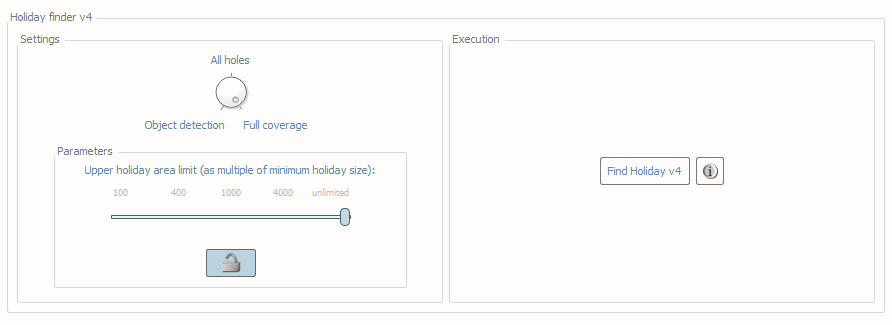
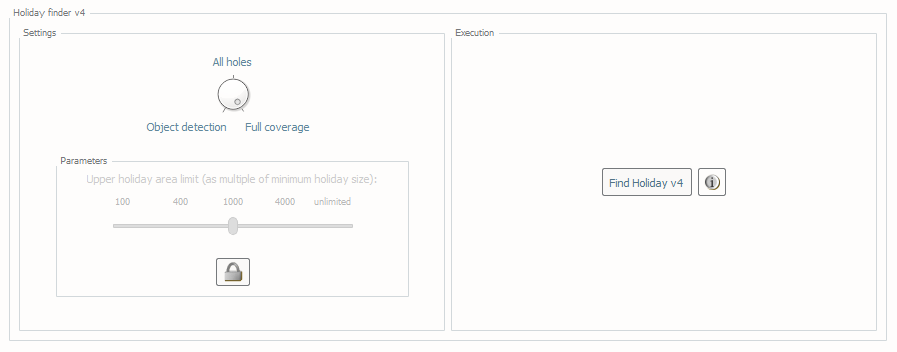
preparation for release 3.2.2

diff --git a/hyo2/qc/survey/gridqa/grid_qa_v6.py b/hyo2/qc/survey/gridqa/grid_qa_v6.py
@@ -119,7 +119,8 @@ class GridQAV6(BaseGridQA):
         self._depth_vs_density = depth_vs_density
         self._depth_vs_tvu_qc = depth_vs_tvu_qc
         logger.debug("output -> hist: depth %s, density %s, tvu qc %s, pct res %s, tvu catzoc %s" %
-                     (self._hist_depth, self._hist_density, self._hist_tvu_qc, self._hist_pct_res, self._hist_catzoc_a1))
+                     (self._hist_depth, self._hist_density, self._hist_tvu_qc, self._hist_pct_res,
+                      self._hist_catzoc_a1))
         logger.debug("output -> vs: density %s, tvu qc %s" % (self._depth_vs_density, self._depth_vs_tvu_qc))
 
         self.bathy_first = True
@@ -358,7 +359,7 @@ class GridQAV6(BaseGridQA):
                     tvu_qc_png_path = Helper.truncate_too_long(tvu_qc_png_path, left_truncation=True)
                     GridQAV6.plot_hysto(layer_name="TVU QC", bins=tvu_qc_bins, density=tvu_qc_density,
                                         bin_width=(1 / self.tvu_qc_mul), grid_info=self.tvu_qc_info,
-                                        png_path=tvu_qc_png_path, hist_color=(.17, .55, .75))
+                                        png_path=tvu_qc_png_path)
                 # save the depth vs. tvu qc plot as png
                 if self._depth_vs_tvu_qc:
                     self._finish_plot_depth_vs_tvu_qc()
@@ -495,7 +496,7 @@ class GridQAV6(BaseGridQA):
                     catzoca1_png_path = Helper.truncate_too_long(catzoca1_png_path, left_truncation=True)
                     GridQAV6.plot_hysto(layer_name="TVU CATZOC A1", bins=catzoc_a1_bins, density=catzoc_a1_density,
                                         bin_width=(1 / self.catzoc_a1_mul), grid_info=self.catzoc_a1_info,
-                                        png_path=catzoca1_png_path, hist_color='#805c9d')
+                                        png_path=catzoca1_png_path, hist_color='#bababa')
 
         # catzoc a2 / b (a2b)
         if self.has_product_uncertainty and self._hist_catzoc_a2b:
@@ -540,7 +541,7 @@ class GridQAV6(BaseGridQA):
                     GridQAV6.plot_hysto(layer_name="TVU CATZOC A2 / B", bins=catzoc_a2b_bins,
                                         density=catzoc_a2b_density, bin_width=(1 / self.catzoc_a2b_mul),
                                         grid_info=self.catzoc_a2b_info, png_path=catzoca2b_png_path,
-                                        hist_color='#805c9d')
+                                        hist_color='#bababa')
 
         # catzoc c
         if self.has_product_uncertainty and self._hist_catzoc_c:
@@ -583,7 +584,7 @@ class GridQAV6(BaseGridQA):
                     catzocc_png_path = Helper.truncate_too_long(catzocc_png_path, left_truncation=True)
                     GridQAV6.plot_hysto(layer_name="TVU CATZOC C", bins=catzoc_c_bins, density=catzoc_c_density,
                                         bin_width=(1 / self.catzoc_c_mul), grid_info=self.catzoc_c_info,
-                                        png_path=catzocc_png_path, hist_color='#805c9d')
+                                        png_path=catzocc_png_path, hist_color='#bababa')
 
         return success
 
@@ -740,7 +741,7 @@ class GridQAV6(BaseGridQA):
         self.density_info.basename = self.grids.current_basename
 
         self.tvu_qc_info = GridInfoV6()
-        self.tvu_qc_info.title = "Uncertainty Standards (IHO Orders 1 and/or 2)"
+        self.tvu_qc_info.title = "Uncertainty Standards - NOAA HSSD"
         self.tvu_qc_info.histo_x_label = "Node uncertainty as a fraction of allowable IHO TVU"
         self.tvu_qc_info.histo_y_label = "Percentage of nodes in each uncertainty group"
         self.tvu_qc_info.basename = self.grids.current_basename
@@ -1004,7 +1005,7 @@ class GridQAV6(BaseGridQA):
 
         # Resolution percentage layers
         pct_success = tile.calculate_pct_of_allowable_resolution(self.grids.depth_layer_name())
-        # logger.debug("is VR -> created resolution pct layers: %s" % pct_success)
+        logger.debug("is VR -> created resolution pct layers: %s" % pct_success)
 
         # - object detection
         if self.objection_detection:
@@ -1080,10 +1081,10 @@ class GridQAV6(BaseGridQA):
         fig = plt.figure()
         ax = fig.add_axes([0.1, 0.1, 0.81, 0.68])  # leaving room for title & subtitle
 
-        hist_color = (.65, .74, .86) if hist_color is None else hist_color
+        hist_color = (.17, .55, .75) if hist_color is None else hist_color
 
-        p1 = ax.bar(x=bins, height=100 * density, width=bin_width, align='center', linewidth=0, color=hist_color)
-        p2, = ax.plot(bins - bin_width / 2., 100 * density, drawstyle="steps-post", fillstyle="bottom")
+        ax.bar(x=bins, height=100 * density, width=bin_width, align='center', linewidth=0, color=hist_color)
+        ax.plot(bins - bin_width / 2., 100 * density, drawstyle="steps-post", fillstyle="bottom")
         ax.grid()
 
         x_min, x_max = bins.min(), bins.max()
@@ -1127,13 +1128,13 @@ class GridQAV6(BaseGridQA):
         other_indices = self.density_values.argsort()
         other_len = len(self.density_values)
 
-        dIdx0 = self.density_values[other_indices].searchsorted(5, 'left')
-        pass_slice, fail_slice = slice(dIdx0, other_len), slice(0, dIdx0)
+        d_idx0 = self.density_values[other_indices].searchsorted(5, 'left')
+        pass_slice, fail_slice = slice(d_idx0, other_len), slice(0, d_idx0)
 
-        p1, = self.density_ax.plot(self.density_values[other_indices][pass_slice],
-                                   self.bathy_values[other_indices][pass_slice], 'b+', alpha=0.5)
-        p2, = self.density_ax.plot(self.density_values[other_indices][fail_slice],
-                                   self.bathy_values[other_indices][fail_slice], 'r+', alpha=0.5)
+        self.density_ax.plot(self.density_values[other_indices][pass_slice],
+                             self.bathy_values[other_indices][pass_slice], 'b+', alpha=0.5)
+        self.density_ax.plot(self.density_values[other_indices][fail_slice],
+                             self.bathy_values[other_indices][fail_slice], 'r+', alpha=0.5)
 
     def _finish_plot_depth_vs_density(self):
 
@@ -1153,7 +1154,7 @@ class GridQAV6(BaseGridQA):
         png_path = os.path.join(self.output_folder, png_file)
         png_path = Helper.truncate_too_long(png_path, left_truncation=True)
 
-        title = self.density_fig.text(.5, .94, 'Node Depth vs. Sounding Density', fontsize=18, ha='center')
+        self.density_fig.text(.5, .94, 'Node Depth vs. Sounding Density', fontsize=18, ha='center')
         self.density_ax.set_xlabel('Soundings per node')
         self.density_fig.savefig(png_path, dpi=144, format='png')
 
@@ -1166,18 +1167,18 @@ class GridQAV6(BaseGridQA):
         other_indices = self.tvu_qc_values.argsort()
         other_len = len(self.tvu_qc_values)
 
-        dIdx0 = self.tvu_qc_values[other_indices].searchsorted(1, 'right')
-        pass_slice, fail_slice = slice(0, dIdx0), slice(dIdx0, other_len)
+        d_idx0 = self.tvu_qc_values[other_indices].searchsorted(1, 'right')
+        pass_slice, fail_slice = slice(0, d_idx0), slice(d_idx0, other_len)
 
         try:
-            p1, = self.tvu_qc_ax.plot(self.tvu_qc_values[other_indices][pass_slice],
-                                      self.bathy_values[other_indices][pass_slice], 'b+', alpha=0.5)
+            self.tvu_qc_ax.plot(self.tvu_qc_values[other_indices][pass_slice],
+                                self.bathy_values[other_indices][pass_slice], 'b+', alpha=0.5)
         except IndexError as e:
             logger.error("index issue while plotting pass slide, %s" % (e,))
 
         try:
-            p2, = self.tvu_qc_ax.plot(self.tvu_qc_values[other_indices][fail_slice],
-                                      self.bathy_values[other_indices][fail_slice], 'r+', alpha=0.5)
+            self.tvu_qc_ax.plot(self.tvu_qc_values[other_indices][fail_slice],
+                                self.bathy_values[other_indices][fail_slice], 'r+', alpha=0.5)
         except IndexError as e:
             logger.error("index issue while plotting fail slice, %s" % (e,))
 

diff --git a/hyo2/qc/survey/scan/feature_scan_v9.py b/hyo2/qc/survey/scan/feature_scan_v9.py
@@ -1540,7 +1540,8 @@ class FeatureScanV9(BaseScan):
             self.report += "Features without 'Prohibited feature' keyword [CHECK]"
             prohibited = S57Aux.select_by_object(objects=self.all_features, object_filter=[
                 'DRGARE', 'LOGPON', 'PIPARE', 'PIPOHD', 'PIPSOL', 'DMPGRD', 'LIGHTS', 'BOYLAT', 'BOYSAW', 'BOYSPP',
-                'DAYMAR', 'FOGSIG', 'CBLSUB', 'CBLARE', 'FAIRWY', 'RTPBCN', 'BOYISD', 'BOYINB', 'BOYCAR', 'CBLOHD'])
+                'DAYMAR', 'FOGSIG', 'CBLSUB', 'CBLARE', 'FAIRWY', 'RTPBCN', 'BOYISD', 'BOYINB', 'BOYCAR', 'CBLOHD',
+                'BCNSPP'])
             self.flagged_prohibited_kwds = self.check_for_missing_keywords(prohibited, attr_acronym='onotes',
                                                                            keywords=['Prohibited feature', ])
 
@@ -1918,7 +1919,8 @@ class FeatureScanV9(BaseScan):
             self.report += "Features without 'Prohibited feature' keyword [CHECK]"
             prohibited = S57Aux.select_by_object(objects=self.all_features, object_filter=[
                 'DRGARE', 'LOGPON', 'PIPARE', 'PIPOHD', 'PIPSOL', 'DMPGRD', 'LIGHTS', 'BOYLAT', 'BOYSAW', 'BOYSPP',
-                'DAYMAR', 'FOGSIG', 'CBLSUB', 'CBLARE', 'FAIRWY', 'RTPBCN', 'BOYISD', 'BOYINB', 'BOYCAR', 'CBLOHD'])
+                'DAYMAR', 'FOGSIG', 'CBLSUB', 'CBLARE', 'FAIRWY', 'RTPBCN', 'BOYISD', 'BOYINB', 'BOYCAR', 'CBLOHD',
+                'BCNSPP'])
             self.flagged_prohibited_kwds = self.check_for_missing_keywords(prohibited, attr_acronym='onotes',
                                                                            keywords=['Prohibited feature', ])
 
@@ -2294,7 +2296,8 @@ class FeatureScanV9(BaseScan):
             self.report += "Features without 'Prohibited feature' keyword [CHECK]"
             prohibited = S57Aux.select_by_object(objects=self.all_features, object_filter=[
                 'DRGARE', 'LOGPON', 'PIPARE', 'PIPOHD', 'PIPSOL', 'DMPGRD', 'LIGHTS', 'BOYLAT', 'BOYSAW', 'BOYSPP',
-                'DAYMAR', 'FOGSIG', 'CBLSUB', 'CBLARE', 'FAIRWY', 'RTPBCN', 'BOYISD', 'BOYINB', 'BOYCAR', 'CBLOHD'])
+                'DAYMAR', 'FOGSIG', 'CBLSUB', 'CBLARE', 'FAIRWY', 'RTPBCN', 'BOYISD', 'BOYINB', 'BOYCAR', 'CBLOHD',
+                'BCNSPP'])
             self.flagged_prohibited_kwds = self.check_for_missing_keywords(prohibited, attr_acronym='onotes',
                                                                            keywords=['Prohibited feature', ])
 
@@ -2596,5 +2599,3 @@ class FeatureScanV9(BaseScan):
                 self.report += 'Check %d - Features with empty/missing attribute remrks: %s' \
                                % (count, len(self.flagged_mcd_remarks))
                 count += 1
-
-

diff --git a/docs/conf.py b/docs/conf.py
@@ -41,16 +41,16 @@ master_doc = 'index'
 
 # General information about the project.
 project = u'HydrOffice QC Tools'
-copyright = u'2019, CCOM/JHC,UNH'
+copyright = u'2020, CCOM/JHC,UNH'
 
 # The version info for the project you're documenting, acts as replacement for
 # |version| and |release|, also used in various other places throughout the
 # built documents.
 #
 # The short X.Y version.
-version = '3.1'
+version = '3.2'
 # The full version, including alpha/beta/rc tags.
-release = '3.1.3'
+release = '3.2.2'
 
 numfig = True
 
@@ -194,7 +194,7 @@ latex_elements = {
 #  author, documentclass [howto, manual, or own class]).
 latex_documents = [
   ('index', 'HydrOfficeQCTools.tex', u'HydrOffice QC Tools Manual',
-   u'2019, CCOM/JHC,UNH', 'manual'),
+   u'2020, CCOM/JHC,UNH', 'manual'),
 ]
 
 # The name of an image file (relative to this directory) to place at the top of

diff --git a/hyo2/qc/qctools/widgets/survey/gridqa.py b/hyo2/qc/qctools/widgets/survey/gridqa.py
@@ -281,7 +281,10 @@ class GridQATab(QtWidgets.QMainWindow):
         if len(self.prj.grid_list) == 0:
             raise RuntimeError("the grid list is empty")
 
-        self.parent_win.change_info_url(Helper(lib_info=lib_info).web_url(suffix="survey_grid_qa_%d" % version))
+        url_suffix = "survey_grid_qa_%d" % version
+        if self.hist_catzoc.isChecked():
+            url_suffix += "_catzoc"
+        self.parent_win.change_info_url(Helper(lib_info=lib_info).web_url(suffix=url_suffix))
 
         # check for user input as force TVU QC
         if version == 6:

diff --git a/hyo2/qc/qctools/widgets/survey/holes.py b/hyo2/qc/qctools/widgets/survey/holes.py
@@ -210,7 +210,7 @@ class HolesTab(QtWidgets.QMainWindow):
         self.upper_limit_v4 = QtWidgets.QSlider(QtCore.Qt.Horizontal)
         self.upper_limit_v4.setRange(1, 5)
         self.upper_limit_v4.setSingleStep(1)
-        self.upper_limit_v4.setValue(5)
+        self.upper_limit_v4.setValue(3)
         self.upper_limit_v4.setTickInterval(1)
         self.upper_limit_v4.setTickPosition(QtWidgets.QSlider.TicksBelow)
         self.upper_limit_v4.setDisabled(True)

diff --git a/docs/user_manual_survey_grid_qa.rst b/docs/user_manual_survey_grid_qa.rst
@@ -16,14 +16,12 @@ Computes grid statistics to ensure compliance with uncertainty and density requi
 .. index::
     single: grid qa; coverage
 
-* In **Settings**, check the box to calculate the TVU QC layer regardless of whether or not the grid contains the layer already.
-
 * Check the boxes that correspond with the plots you wish to generate. 
 
 .. index::
     single: grid, uncertainty, density
 
-* In **Execution**, click **Grid QA v5**.
+* In **Execution**, click **Grid QA v6**.
 
 .. _fig_grid_qa:
 .. figure:: _static/grid_qa_interface.png
@@ -63,30 +61,53 @@ Computes grid statistics to ensure compliance with uncertainty and density requi
 How Does It Work?
 ^^^^^^^^^^^^^^^^^
 
-The Depth, Uncertainty, Density (if available), and a computed Total Vertical Uncertainty (TVU) QC layer (optional) are used to compute particular statistics shown as a series of plots.  
+The Depth, Uncertainty, Density (if available), and a computed Total Vertical Uncertainty (TVU) QC layer are used to compute particular statistics shown as a series of plots.  
 
-The TVU QC is either given to the program in the grid input, or calculated on-the-fly. It is determined by a ratio of uncertainty to allowable error per NOAA and IHO specification:
+**The following plots are the output of Grid QA:**
+    * The Depth layer is plotted as a distribution (plot entitled **"Depth Distribution"**).
+    
+    * The Density layer is plotted as a distribution (plot entitled **"Object Detection Coverage"**).
+
+        * Percentages of nodes less than 5 soundings per node fall in the red shaded region of the plot and together must be less than 5% of all nodes in order to "pass".
+        
+    * Density is plotted against the corresponding Depth of the node (plot entitled **"Node Depth vs. Sounding Density"**).
+    
+    * TVU QC (IHO S-44) is plotted as a distribution (plot entitled **"Uncertainty Standards - NOAA HSSD"**).
+    
+        * Percentages of nodes with TVU QC greater than 1.0 (indicating that the allowable error has been exceeded) fall in the red shaded region of the plot, and together must be less than 5% of all nodes in order to "pass".
+        
+    * TVU QC (IHO S-44) is plotted against the corresponding Depth of the node (plot entitled **"Node Depth vs. TVU QC"**).
+
+    * Only for Variable Resolution grids, a histogram with the percentage of nodes at the prescribed resolution is created. This histogram can be used to evaluate whether *"95% of all surface nodes [..] have a resolution equal to or smaller than the coarsest allowable resolution for the node depth"* (NOAA HTD 2017-2 "Caris Variable Resolution Grids").
+	
+    * *TVU QC (IHO S-57 CATZOC) [Branch]* is plotted as a distribution (plot entitled *"Uncertainty Standards - CATZOC ..."*).
+
+|
+
+**TVU QC Calculations**
+
+The TVU QC layer is calculated on-the-fly by the program. TVU QC based on IHO S-44 Orders 1 and 2 is in alignment with the requirements set forth by the HSSD and is determined by a ratio of uncertainty to allowable error. It is calculated as such:  
 
 .. math::
 
-    TVU\, QC = Uncertainty / \sqrt{A^2 + (B * Depth)^2}
+    TVU\, QC (IHO S-44) = Uncertainty / \sqrt{A^2 + (B * Depth)^2}
 
 where :math:`A = 0.5, B = 0.013` for Order 1 (depths less than 100 m), and :math:`A = 1.0, B = 0.023` for Order 2 (depths greater than 100 m).
 
-The following plots are the output of Grid QA:
 
-* The Depth layer is plotted as a distribution (plot entitled **"Depth Distribution"**).
+TVU QC based on IHO S-57 CATZOC is used by the hydrographic branch to evaluate the quality of bathymetry for surveys that are not subject to the HSSD. **This check should NOT be used by NOAA field units or contract field units.** For TVU QC based on IHO S-57 CATZOC, TVU QC is calculated as such:
 
-* The Density layer is plotted as a distribution (plot entitled **"Object Detection Coverage"**). 
+.. math::
 
-    * Percentages of nodes less than 5 soundings per node fall in the red shaded region of the plot and together must be less than 5% of all nodes in order to "pass".
+    TVU\, QC (IHO S-57 CATZOC) = Uncertainty / (A + (B * Depth))
 
-* Density is plotted against the corresponding Depth of the node (plot entitled **"Node Depth vs. Sounding Density"**).
+where for:
 
-* TVU QC is plotted as a distribution (plot entitled **"Uncertainty Standards"**). 
+    *CATZOC A1:* :math:`A = 0.5, B = 0.01`
 
-    * Percentages of nodes with TVU QC greater than 1.0 (indicating that the allowable error has been exceeded) fall in the red shaded region of the plot, and together must be less than 5% of all nodes in order to "pass".
+    *CATZOC A2 and CATZOC B:* :math:`A = 1.0, B = 0.02`
 
-* TVU QC is plotted against the corresponding Depth of the node (plot entitled **"Node Depth vs. TVU QC"**).
+    *CATZOC C:* :math:`A = 2.0, B = 0.05`
 
-* Only for Variable Resolution grids, a histogram with the percentage of nodes at the prescribed resolution is created. This histogram can be used to evaluate whether *"95% of all surface nodes [..] have a resolution equal to or smaller than the coarsest allowable resolution for the node depth"* (NOAA HTD 2017-2 "Caris Variable Resolution Grids").
+
+Running the *TVU (IHO S-57 CATZOC) [Branch]* check will generate three plots, one for each calculation of CATZOC TVU QC mentioned above.

diff --git a/docs/user_manual_survey_scan_features.rst b/docs/user_manual_survey_scan_features.rst
@@ -111,7 +111,7 @@ The logic for the 2019 QC Tools feature scan is shown below. For previous years,
 * Specific for the Office Profile:
     * All features must have **"onotes".**
     * All features must have **"hsdrec".**
-    * Checks for features that are prohibited by MCD (**"DRGARE", "LOGPON", "PIPARE", "PIPOHD", "PIPSOL", "DMPGRD" "LIGHTS", "BOYLAT", "BOYSAW", "BOYSPP", "DAYMAR", "FOGSIG", "CBLSUB", "CBLARE", "FAIRWY", "RTPBCN", "BOYISD", "BOYINB", "BOYCAR", "CBLOHD", "OBSTRN"** with **"CATOBS"** = 5, **MORFAC** with **CATMOR** = 7.
+    * Checks for features that are prohibited by MCD (**"DRGARE", "LOGPON", "PIPARE", "PIPOHD", "PIPSOL", "DMPGRD" "LIGHTS", "BOYLAT", "BOYSAW", "BOYSPP", "DAYMAR", "FOGSIG", "CBLSUB", "CBLARE", "FAIRWY", "RTPBCN", "BOYISD", "BOYINB", "BOYCAR", "CBLOHD", "OBSTRN", "BCNSPP"** with **"CATOBS"** = 5, **MORFAC** with **CATMOR** = 7.
     * All **M_QUAL** features must have **"CATZOC", "SURSTA", "SUREND",** and **"TECSOU".**
     * All features must have **"descrp"** and **remrks"**.
 

diff --git a/docs/user_manual_survey_detect_holidays.rst b/docs/user_manual_survey_detect_holidays.rst
@@ -113,7 +113,9 @@ The following images illustrate the outcomes of the three algorithms applied to 
 
 A candidate hole is flagged with a "1" (if certain) or a "2" (possible holiday).
 
-Note that the default **Upper holiday area limit (as multiple of minimum holiday size)** is set to unlimited, meaning that an unpopulated part of the grid will be flagged independently of its size. This setting exists so the search can be refined at the user's discretion.
+Note that the default **Upper holiday area limit (as multiple of minimum holiday size)** is set to 1000, meaning that
+an unpopulated part of the grid will be flagged only if smaller than 1000 times the minimum holiday size.
+This setting exists so the search can be refined at the user's discretion.
 
 For example:
 

diff --git a/docs/index.rst b/docs/index.rst
@@ -20,6 +20,6 @@ QC Tools's documentation
 
 
 .. note::
-    © University of New Hampshire, Center for Coastal and Ocean Mapping, 2019.  All rights reserved.  Portions of this
+    © University of New Hampshire, Center for Coastal and Ocean Mapping, 2020.  All rights reserved.  Portions of this
     project were developed under a cooperative agreement with NOAA Coast Survey Development Laboratory, and contain
     NOAA-developed code in the public domain.

diff --git a/docs/user_manual_survey.rst b/docs/user_manual_survey.rst
@@ -7,7 +7,6 @@ Survey Validation
     user_manual_survey_overview
     user_manual_survey_data_inputs
     user_manual_survey_detect_fliers
-    user_manual_survey_detect_anomalies
     user_manual_survey_detect_holidays
     user_manual_survey_grid_qa
     user_manual_survey_scan_designated
